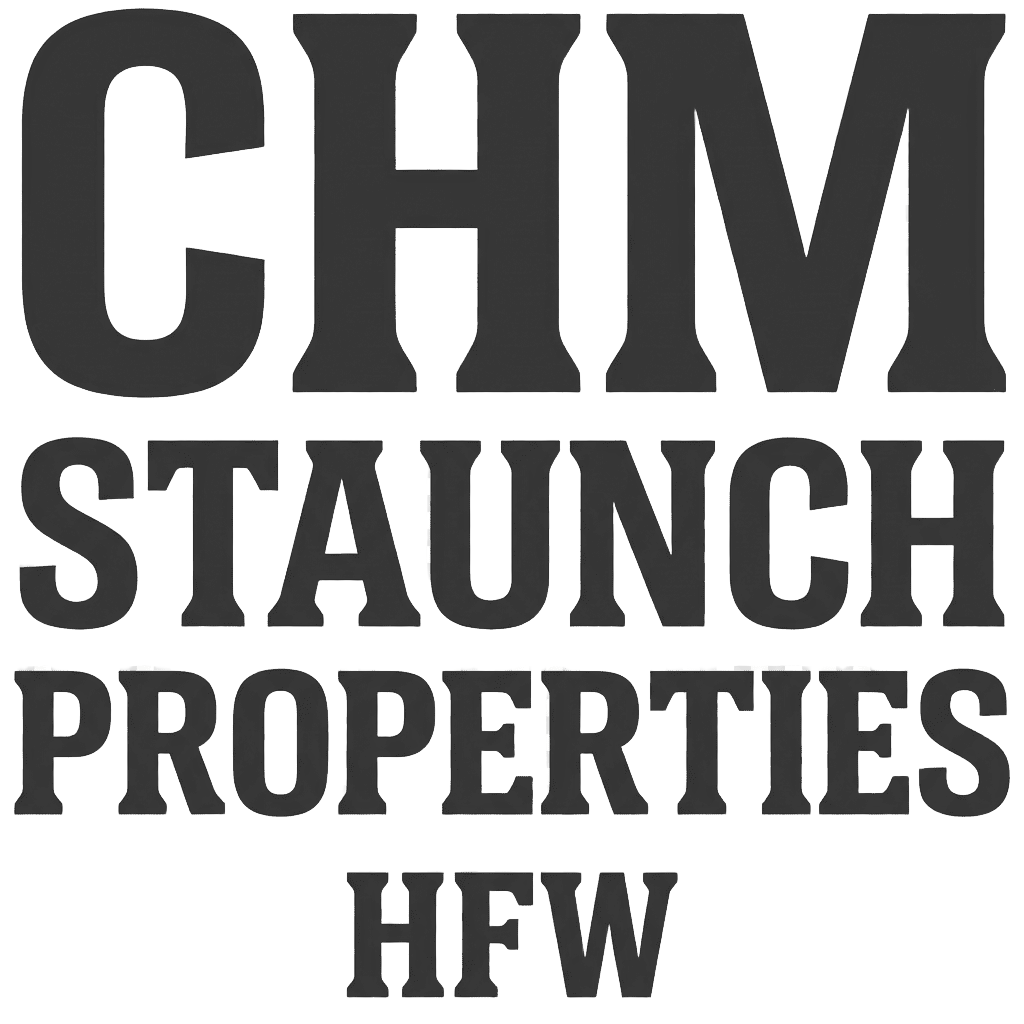
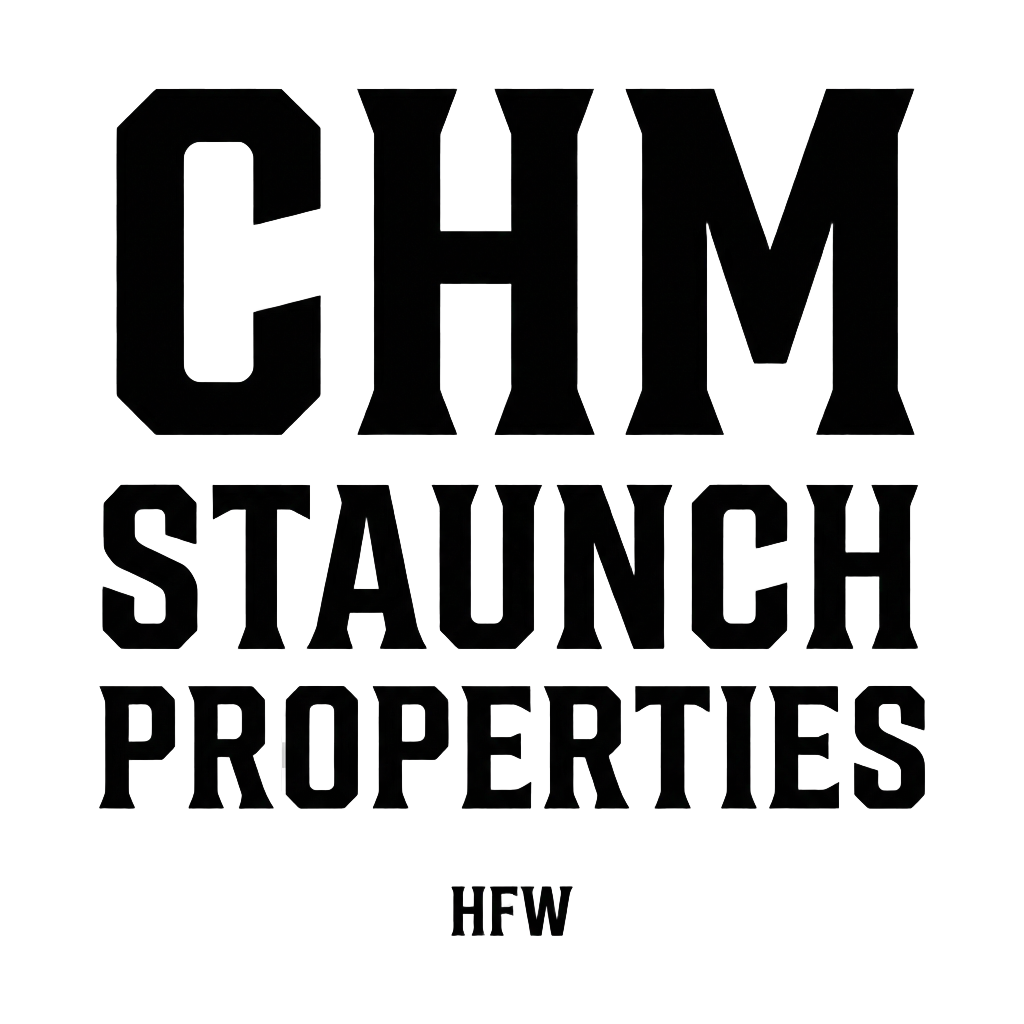
Fix graphics: regenerated with black text for visibility on light garments, transparent backgrounds

diff --git a/src/index.tsx b/src/index.tsx
@@ -152,157 +152,157 @@ const graphics = [
   {
     id: 'hfw-black-3d',
     name: 'HFW 3D Black',
-    thumbnail: '/images/graphics/hfw-logo-black-3d.png?v=8',
-    fullImage: '/images/graphics/hfw-logo-black-3d.png?v=8',
+    thumbnail: '/images/graphics/hfw-logo-black-3d.png?v=9',
+    fullImage: '/images/graphics/hfw-logo-black-3d.png?v=9',
     restrictToGarments: []
   },
   {
     id: 'hfw-black-shadow',
     name: 'HFW Black Shadow',
-    thumbnail: '/images/graphics/hfw-logo-black-shadow.png?v=8',
-    fullImage: '/images/graphics/hfw-logo-black-shadow.png?v=8',
+    thumbnail: '/images/graphics/hfw-logo-black-shadow.png?v=9',
+    fullImage: '/images/graphics/hfw-logo-black-shadow.png?v=9',
     restrictToGarments: []
   },
   {
     id: 'hfw-metal-gloves',
     name: 'HFW Metal Gloves',
-    thumbnail: '/images/graphics/hfw-logo-metal-gloves.png?v=8',
-    fullImage: '/images/graphics/hfw-logo-metal-gloves.png?v=8',
+    thumbnail: '/images/graphics/hfw-logo-metal-gloves.png?v=9',
+    fullImage: '/images/graphics/hfw-logo-metal-gloves.png?v=9',
     restrictToGarments: []
   },
   {
     id: 'hfw-white-outline',
     name: 'HFW White Outline',
-    thumbnail: '/images/graphics/hfw-logo-white-outline.png?v=8',
-    fullImage: '/images/graphics/hfw-logo-white-outline.png?v=8',
+    thumbnail: '/images/graphics/hfw-logo-white-outline.png?v=9',
+    fullImage: '/images/graphics/hfw-logo-white-outline.png?v=9',
     restrictToGarments: []
   },
   {
     id: 'hfw-logo',
     name: 'HFW Logo',
-    thumbnail: '/images/graphics/hfw-logo-original.png?v=8',
-    fullImage: '/images/graphics/hfw-logo-original.png?v=8',
+    thumbnail: '/images/graphics/hfw-logo-original.png?v=9',
+    fullImage: '/images/graphics/hfw-logo-original.png?v=9',
     restrictToGarments: []
   },
   {
     id: 'human-cockfighter',
     name: 'Human Cockfighter',
-    thumbnail: '/images/graphics/human-cockfighter.png?v=8',
-    fullImage: '/images/graphics/human-cockfighter.png?v=8',
+    thumbnail: '/images/graphics/human-cockfighter.png?v=9',
+    fullImage: '/images/graphics/human-cockfighter.png?v=9',
     restrictToGarments: []
   },
   {
     id: 'thump-a-stranger',
     name: 'Thump A Stranger',
-    thumbnail: '/images/graphics/thump-a-stranger.png?v=8',
-    fullImage: '/images/graphics/thump-a-stranger.png?v=8',
+    thumbnail: '/images/graphics/thump-a-stranger.png?v=9',
+    fullImage: '/images/graphics/thump-a-stranger.png?v=9',
     restrictToGarments: []
   },
   {
     id: 'gpg-design',
     name: 'GPG Design',
-    thumbnail: '/images/graphics/gpg-design.png?v=8',
-    fullImage: '/images/graphics/gpg-design.png?v=8',
+    thumbnail: '/images/graphics/gpg-design.png?v=9',
+    fullImage: '/images/graphics/gpg-design.png?v=9',
     restrictToGarments: []
   },
   {
     id: 'yycf-logo',
     name: 'YYCF Logo',
-    thumbnail: '/images/graphics/yycf-logo.png?v=8',
-    fullImage: '/images/graphics/yycf-logo.png?v=8',
+    thumbnail: '/images/graphics/yycf-logo.png?v=9',
+    fullImage: '/images/graphics/yycf-logo.png?v=9',
     restrictToGarments: []
   },
   {
     id: 'fun-logo',
     name: 'FUN Logo',
-    thumbnail: '/images/graphics/fun-logo.png?v=8',
-    fullImage: '/images/graphics/fun-logo.png?v=8',
+    thumbnail: '/images/graphics/fun-logo.png?v=9',
+    fullImage: '/images/graphics/fun-logo.png?v=9',
     restrictToGarments: []
   },
   // NEW GRAPHICS - Added from Shop Now products
   {
     id: 'myob',
     name: 'MYOB (Mind Y\'own Business)',
-    thumbnail: '/images/graphics/myob.png?v=8',
-    fullImage: '/images/graphics/myob.png?v=8',
+    thumbnail: '/images/graphics/myob.png?v=9',
+    fullImage: '/images/graphics/myob.png?v=9',
     restrictToGarments: []
   },
   {
     id: 'gnf',
     name: 'GNF',
-    thumbnail: '/images/graphics/gnf.png?v=8',
-    fullImage: '/images/graphics/gnf.png?v=8',
+    thumbnail: '/images/graphics/gnf.png?v=9',
+    fullImage: '/images/graphics/gnf.png?v=9',
     restrictToGarments: []
   },
   {
     id: 'wimb',
     name: 'WIMB (What\'s It Mean To You?)',
-    thumbnail: '/images/graphics/wimb.png?v=8',
-    fullImage: '/images/graphics/wimb.png?v=8',
+    thumbnail: '/images/graphics/wimb.png?v=9',
+    fullImage: '/images/graphics/wimb.png?v=9',
     restrictToGarments: []
   },
   {
     id: 'cling-to-guns',
     name: 'Cling to Guns',
-    thumbnail: '/images/graphics/cling-to-guns.png?v=8',
-    fullImage: '/images/graphics/cling-to-guns.png?v=8',
+    thumbnail: '/images/graphics/cling-to-guns.png?v=9',
+    fullImage: '/images/graphics/cling-to-guns.png?v=9',
     restrictToGarments: []
   },
   {
     id: 'yes-you-can',
     name: 'Yes, You Can',
-    thumbnail: '/images/graphics/yes-you-can.png?v=8',
-    fullImage: '/images/graphics/yes-you-can.png?v=8',
+    thumbnail: '/images/graphics/yes-you-can.png?v=9',
+    fullImage: '/images/graphics/yes-you-can.png?v=9',
     restrictToGarments: []
   },
   {
     id: 'put-it-on-em',
     name: 'Put It On Em',
-    thumbnail: '/images/graphics/put-it-on-em.png?v=8',
-    fullImage: '/images/graphics/put-it-on-em.png?v=8',
+    thumbnail: '/images/graphics/put-it-on-em.png?v=9',
+    fullImage: '/images/graphics/put-it-on-em.png?v=9',
     restrictToGarments: []
   },
   {
     id: 'obama-tap',
     name: 'Obama Tap',
-    thumbnail: '/images/graphics/obama-tap.png?v=8',
-    fullImage: '/images/graphics/obama-tap.png?v=8',
+    thumbnail: '/images/graphics/obama-tap.png?v=9',
+    fullImage: '/images/graphics/obama-tap.png?v=9',
     restrictToGarments: []
   },
   {
     id: 'good-for-community',
     name: 'Good for Community',
-    thumbnail: '/images/graphics/good-for-community.png?v=8',
-    fullImage: '/images/graphics/good-for-community.png?v=8',
+    thumbnail: '/images/graphics/good-for-community.png?v=9',
+    fullImage: '/images/graphics/good-for-community.png?v=9',
     restrictToGarments: []
   },
   {
     id: 'hard-hittin',
     name: 'Hard Hittin\'',
-    thumbnail: '/images/graphics/hard-hittin.png?v=8',
-    fullImage: '/images/graphics/hard-hittin.png?v=8',
+    thumbnail: '/images/graphics/hard-hittin.png?v=9',
+    fullImage: '/images/graphics/hard-hittin.png?v=9',
     restrictToGarments: []
   },
   {
     id: 'staunch-chm',
     name: 'Staunch Properties (CHM)',
-    thumbnail: '/images/graphics/staunch-chm.png?v=8',
-    fullImage: '/images/graphics/staunch-chm.png?v=8',
+    thumbnail: '/images/graphics/staunch-chm.png?v=9',
+    fullImage: '/images/graphics/staunch-chm.png?v=9',
     restrictToGarments: []
   },
   // SPECIAL: Thumpin' Is Lovin' - Women's Only (Tanks and T-Shirts)
   {
     id: 'thumpin-is-lovin-pink',
     name: 'Thumpin\' Is Lovin\' (Pink)',
-    thumbnail: '/images/graphics/thumpin-is-lovin-pink.png?v=8',
-    fullImage: '/images/graphics/thumpin-is-lovin-pink.png?v=8',
+    thumbnail: '/images/graphics/thumpin-is-lovin-pink.png?v=9',
+    fullImage: '/images/graphics/thumpin-is-lovin-pink.png?v=9',
     restrictToGarments: ['tank-womens', 'tshirt']  // Women's tanks and unisex t-shirts
   },
   {
     id: 'thumpin-is-lovin-purple',
     name: 'Thumpin\' Is Lovin\' (Purple)',
-    thumbnail: '/images/graphics/thumpin-is-lovin-purple.png?v=8',
-    fullImage: '/images/graphics/thumpin-is-lovin-purple.png?v=8',
+    thumbnail: '/images/graphics/thumpin-is-lovin-purple.png?v=9',
+    fullImage: '/images/graphics/thumpin-is-lovin-purple.png?v=9',
     restrictToGarments: ['tank-womens', 'tshirt']  // Women's tanks and unisex t-shirts
   }
 ]
